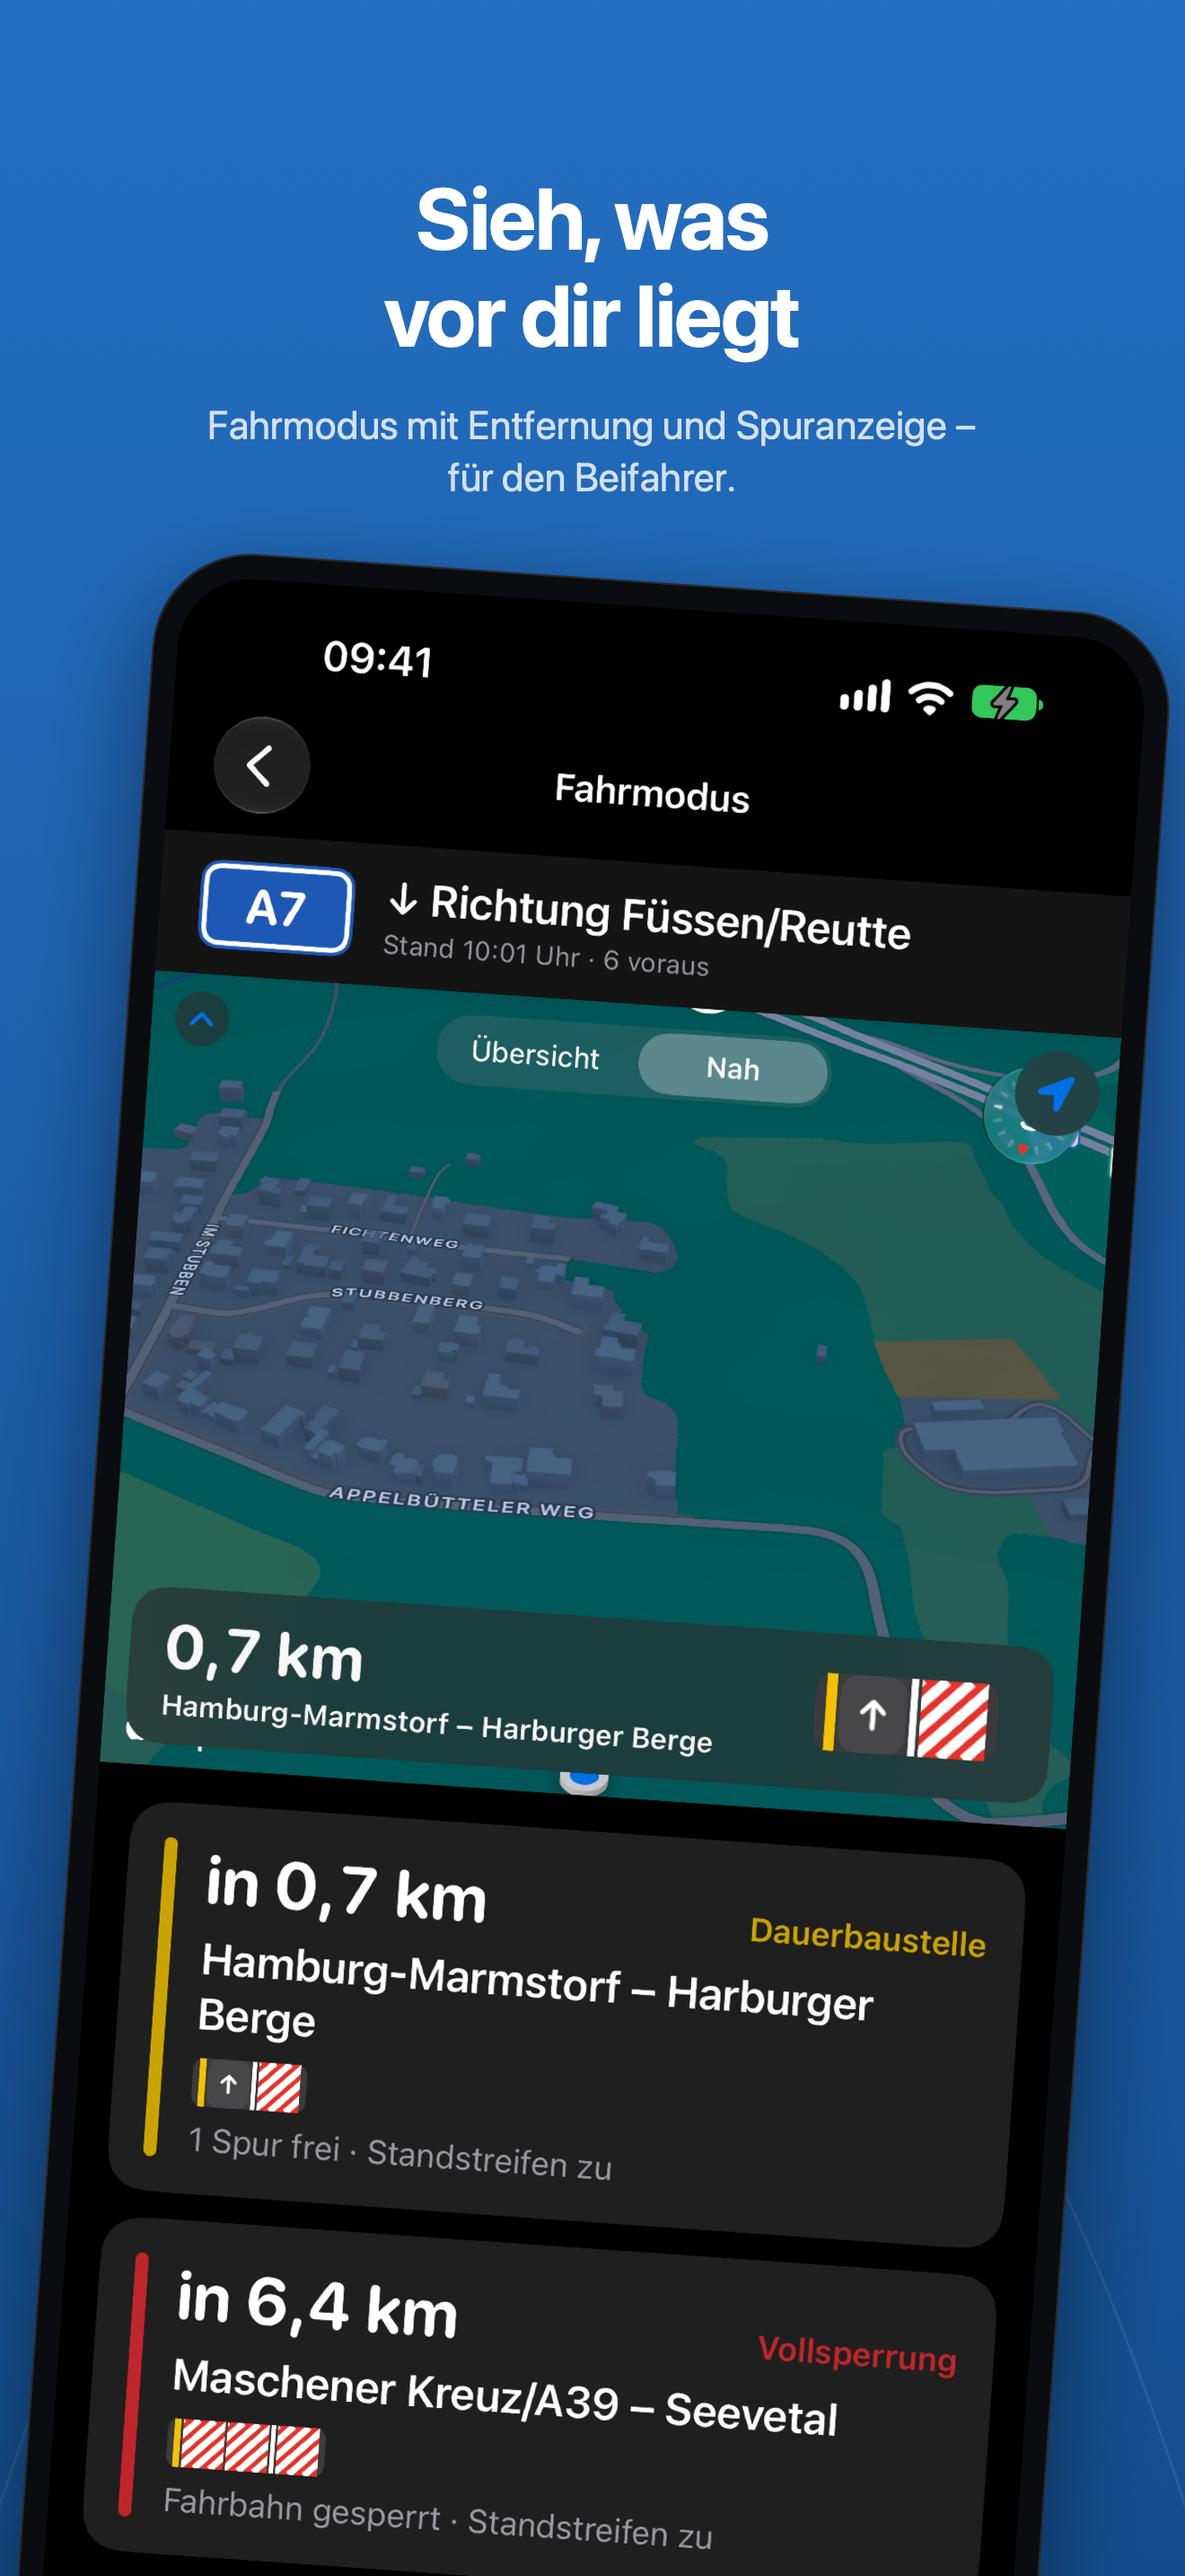
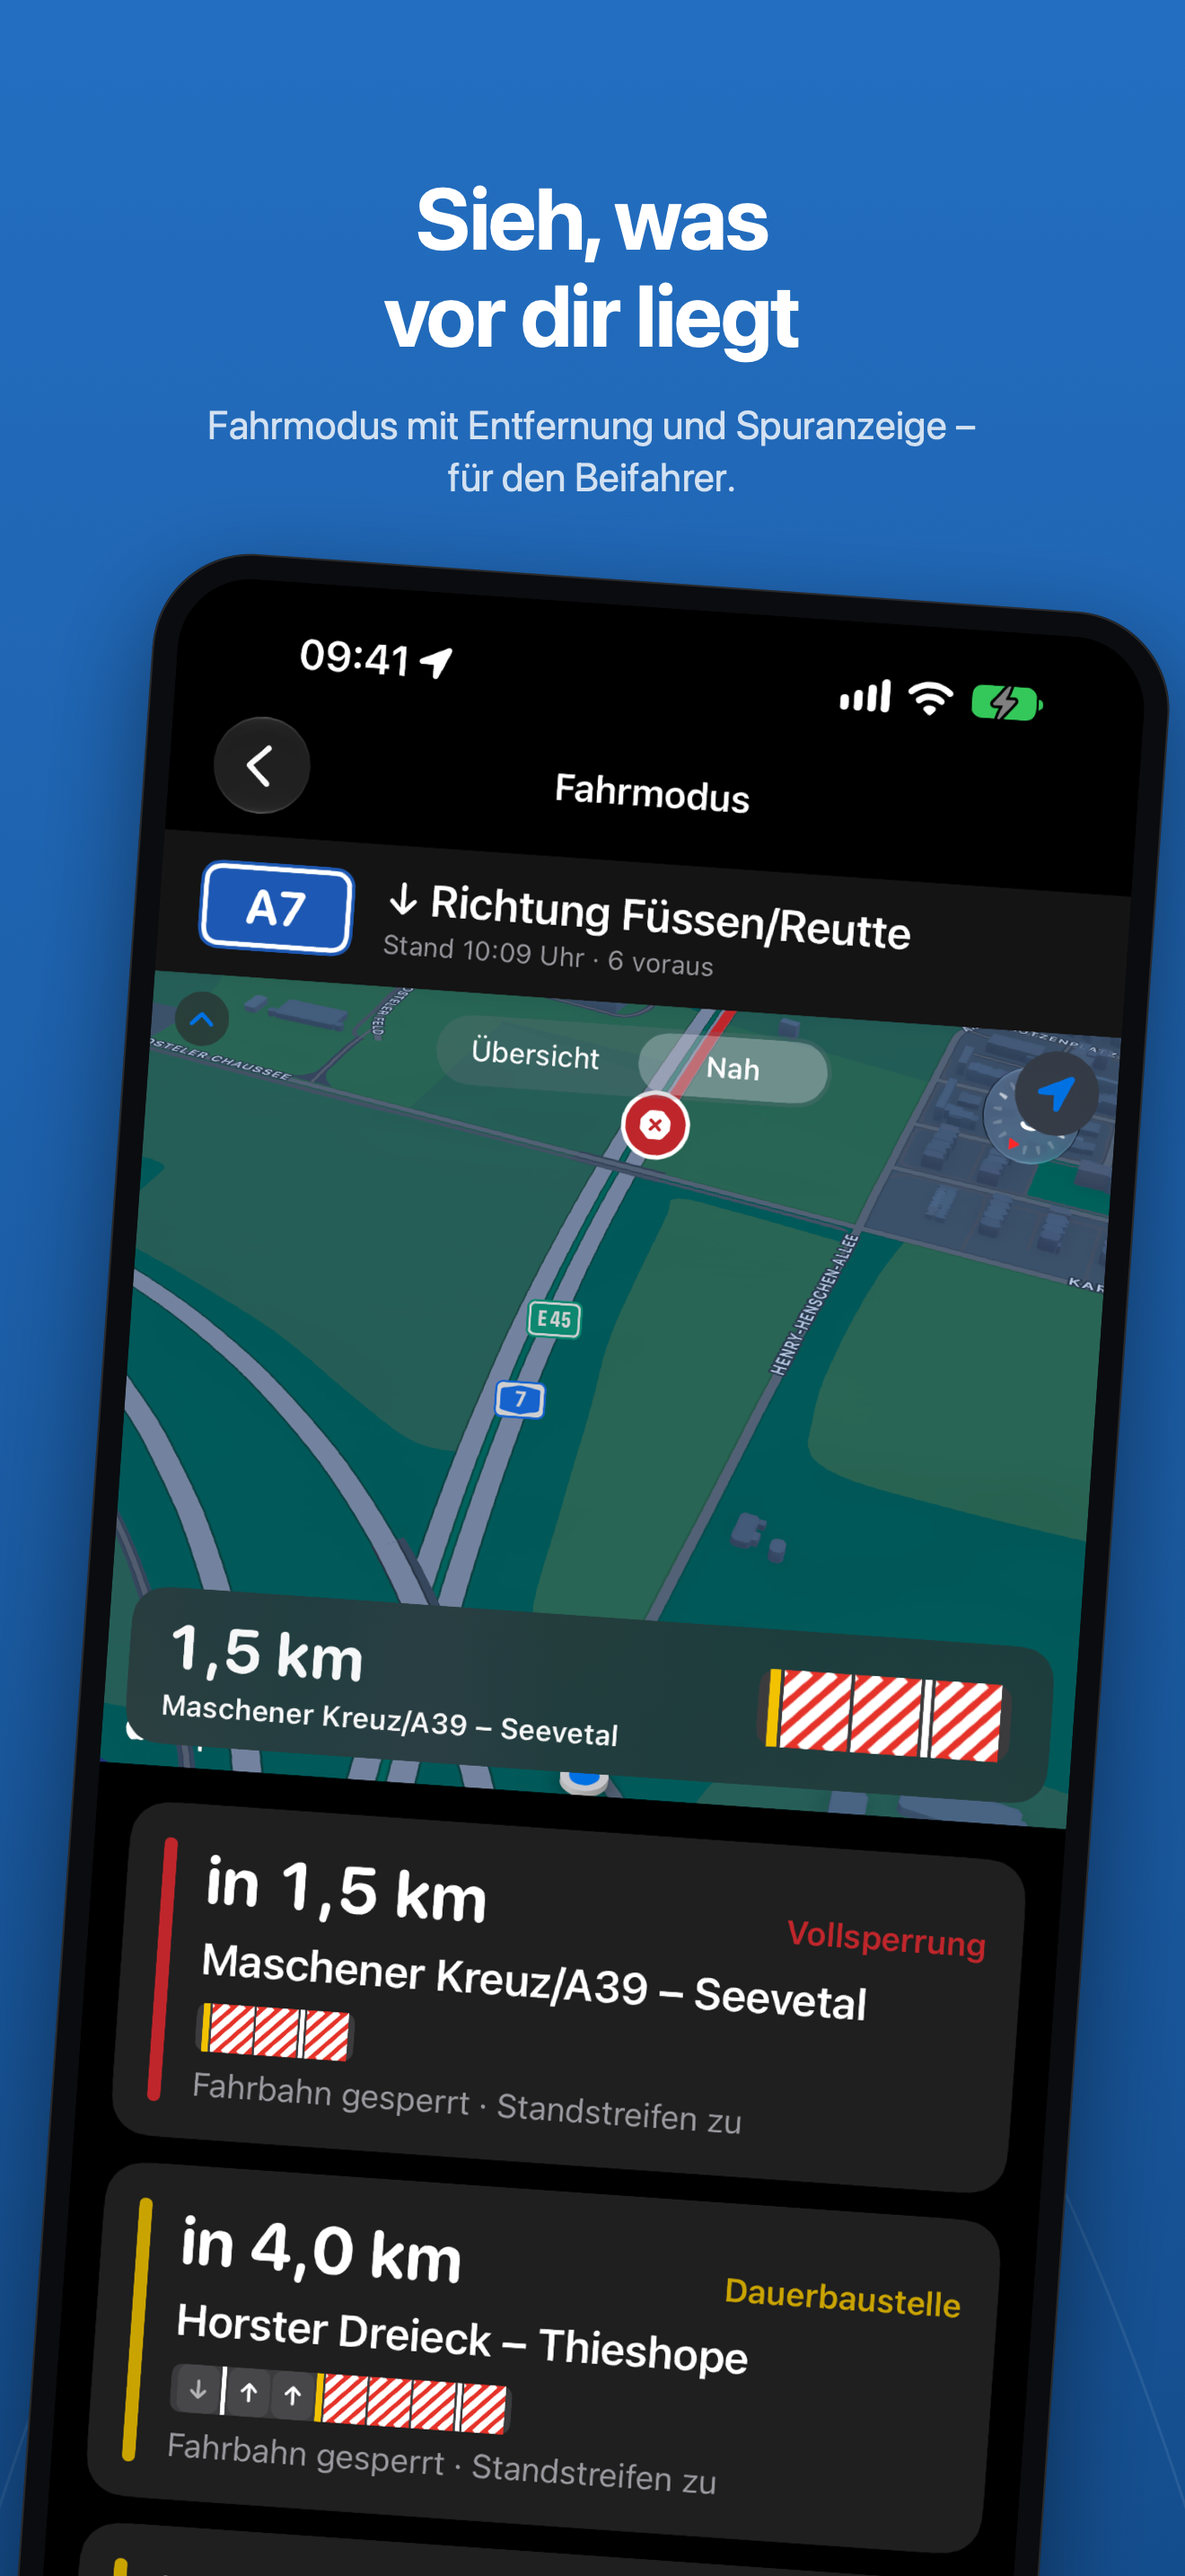
Fahrmodus: doppeltes „ab“ in der Liste; Vorschaubild 04 mit sichtbarer Vollsperrung

Changed region(s): [[0.0621, 0.3724, 0.9629, 1.0], [0.2485, 0.2483, 0.3727, 0.2793]]

diff --git a/ios/Stauklar/UI/DriveView.swift b/ios/Stauklar/UI/DriveView.swift
@@ -246,7 +246,7 @@ struct UpcomingRow: View {
                 HStack(alignment: .firstTextBaseline) {
                     Text(distance).font(.system(size: 30, weight: .bold, design: .rounded)).monospacedDigit()
                     Spacer()
-                    Text(u.active ? u.label : "ab \(u.when)").font(.subheadline.weight(.semibold)).foregroundStyle(Theme.color(u.severity))
+                    Text(u.active ? u.label : (u.when.hasPrefix("ab ") ? u.when : "ab \(u.when)")).font(.subheadline.weight(.semibold)).foregroundStyle(Theme.color(u.severity))
                 }
                 Text(u.title).font(.title3.weight(.semibold)).lineLimit(2)
                 if !u.lanes.isEmpty {
